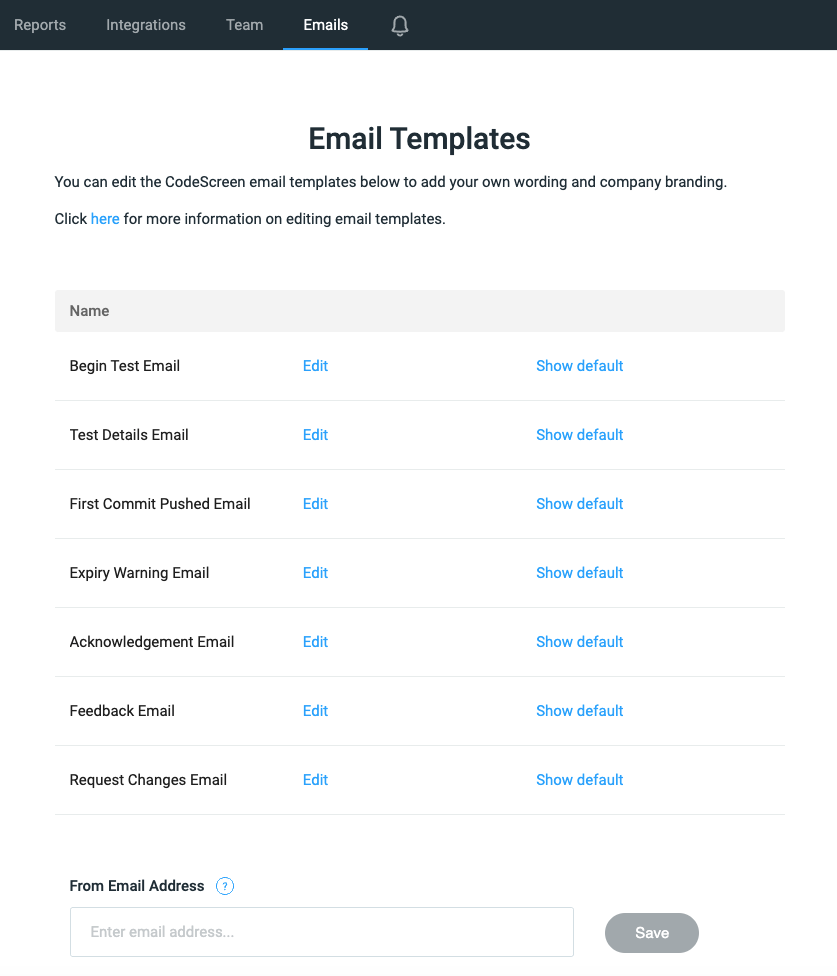
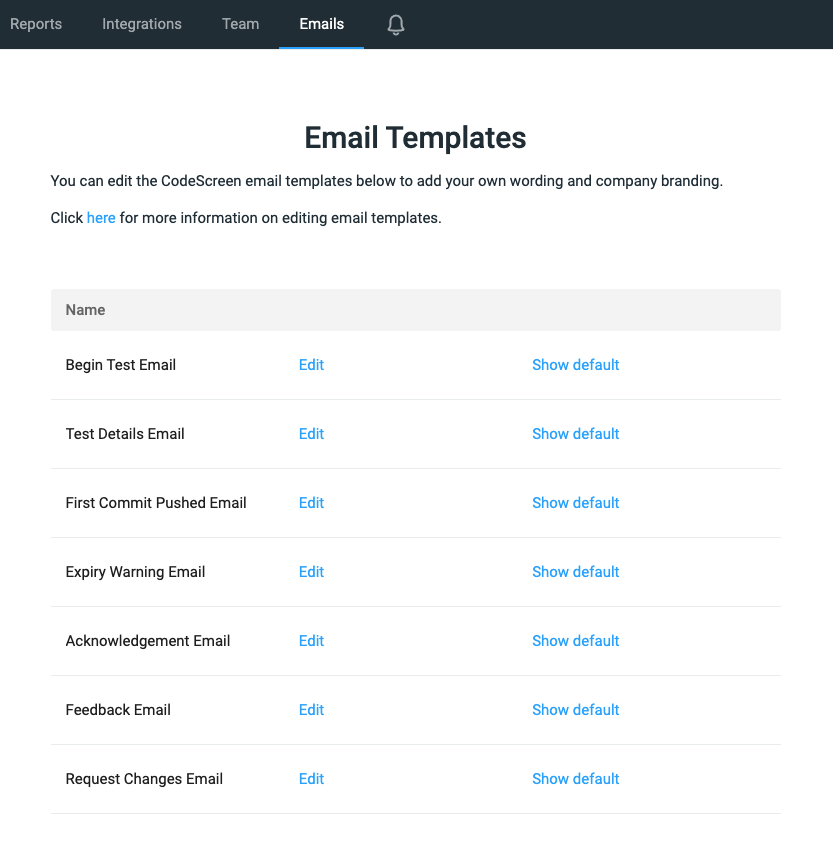
Added editing from email address seperate doc

diff --git a/docs/templates.md b/docs/templates.md
@@ -12,7 +12,7 @@ To edit the email templates, click into the
 <figure>
   <figcaption style="font-style: italic;"></figcaption>
   </br>
-  <img style="max-width: 60%;" src="templates.png" alt="Test Choice"/>
+  <img style="max-width: 60%;" src="templates.png" alt="Email Templates"/>
 </figure>
 
 **Note** that you will not have access to the Emails section on CodeScreen unless you are an admin user. If you are not
@@ -64,14 +64,3 @@ An explanation on what each variable is referring to is provided below:
 * `{dateTimeToBeginTestDisplayValue}` - The date time the candidate has until to begin the test, e.g. "11th November at 18:30 (UTC)". This is always displayed in the UTC timezone.
 * `{timeToCompleteTestBeginsDisplayValue}` - The number of hours/days the candidate has to complete the test from when they <br> begin the test, e.g. "3 hours", "1 day", etc.
 * `{comments}` - The list of comments that have been left on the candidate's GitHub repo when feedback is given/changes are requested.
-
-### Editing the From Email Address
-
-You can also edit the email address from which the above emails are sent. The default email address is
-<a href="mailto:hello@codescreen.dev">hello@codescreen.dev</a>. 
-
-If you want to change this to one of the internal email addresses you use for hiring, just enter it into the
-`From Email Address` field, and click the `Save` button.
-
-Once you do this, you will receive a verification request email from <a href="https://aws.amazon.com/ses/" target="_blank">Amazon SES</a>,
-our email provider. You just need to click the link in that email, and then we will be able to send emails from the email address you added!

diff --git a/docs/editing-from-email-address.md b/docs/editing-from-email-address.md
@@ -1,0 +1,21 @@
+# Editing the From Email Address
+
+You can also edit the email address from which the emails to candidates are sent. The default email address is
+<a href="mailto:hello@codescreen.dev">hello@codescreen.dev</a>. 
+
+If you want to change this to one of the internal email addresses you use for hiring, enter it into the
+`From Email Address` field at the bottom of the <a href="https://app.codescreen.dev/#/client-templates" target="_blank">Emails</a> section,
+and click the `Save` button:
+
+<figure>
+  <figcaption style="font-style: italic;"></figcaption>
+  </br>
+  <img style="max-width: 50%;" src="fromEmail.png" alt="From Email Address"/>
+</figure>
+
+Once you do this, the email address you entered will receive a verification request email from <a href="https://aws.amazon.com/ses/" target="_blank">Amazon SES</a>,
+our email provider. You just need to click the link in that email, and then all emails sent to candidates will be sent from this email address.
+
+### Enabling DKIM
+
+To improve deliverability rates when using a custom email address, you can also configure `DomainKeys Identified Mail (DKIM)`, which provides proof that the emails you send to candidates originate from your domain and are authentic. DKIM signatures are stored in your domain's DNS system. Once you save a custom email address, you will also receive an email from CodeScreen containing the records you need to add to your DNS settings to enable DKIM.

diff --git a/docs/sidebar.md b/docs/sidebar.md
@@ -80,6 +80,7 @@
 - Email Templates
 
   - [Editing Email Templates](templates.md)
+  - [Editing From Email Address](editing-from-email-address.md)
 
 - Adding Users
 
